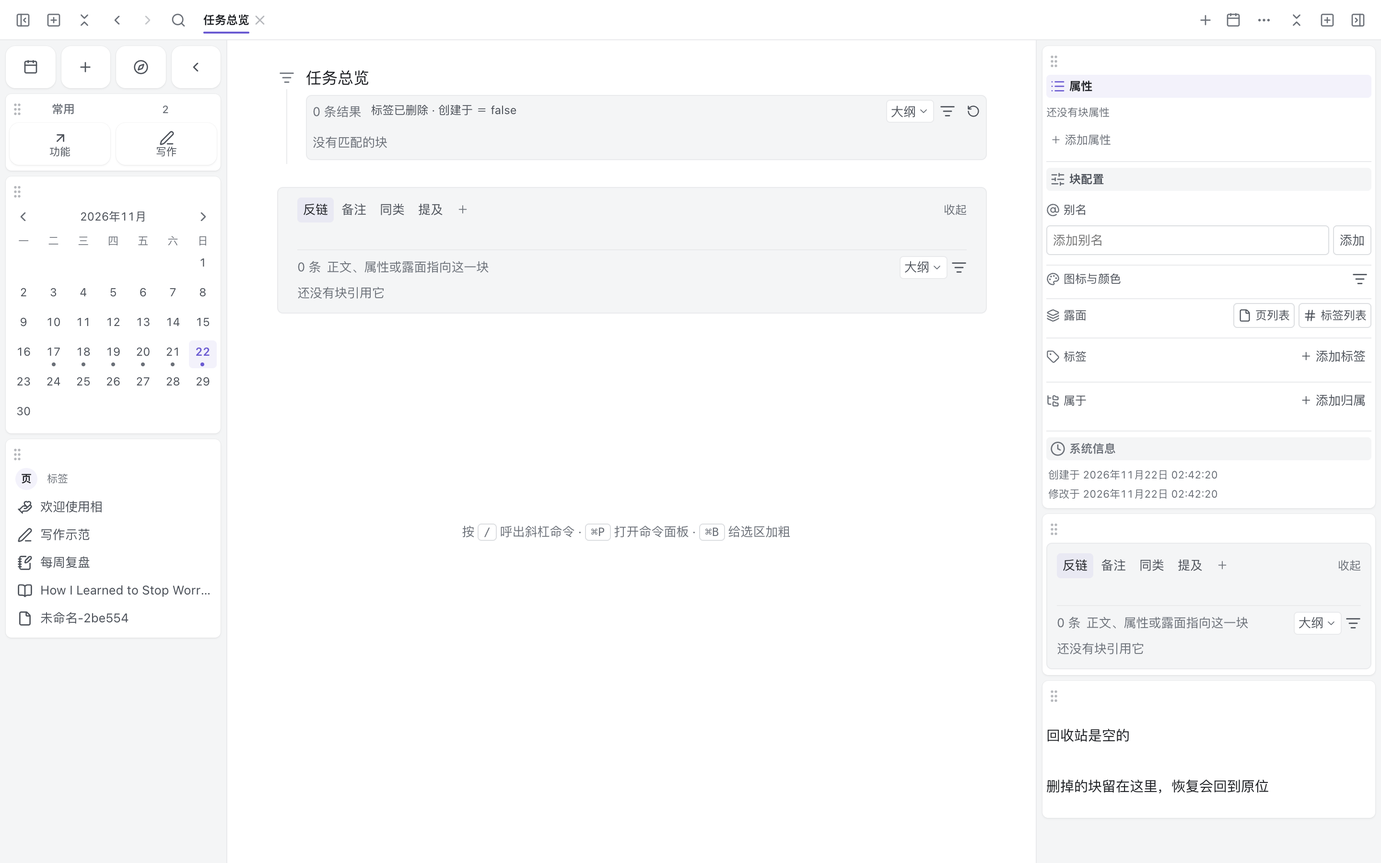
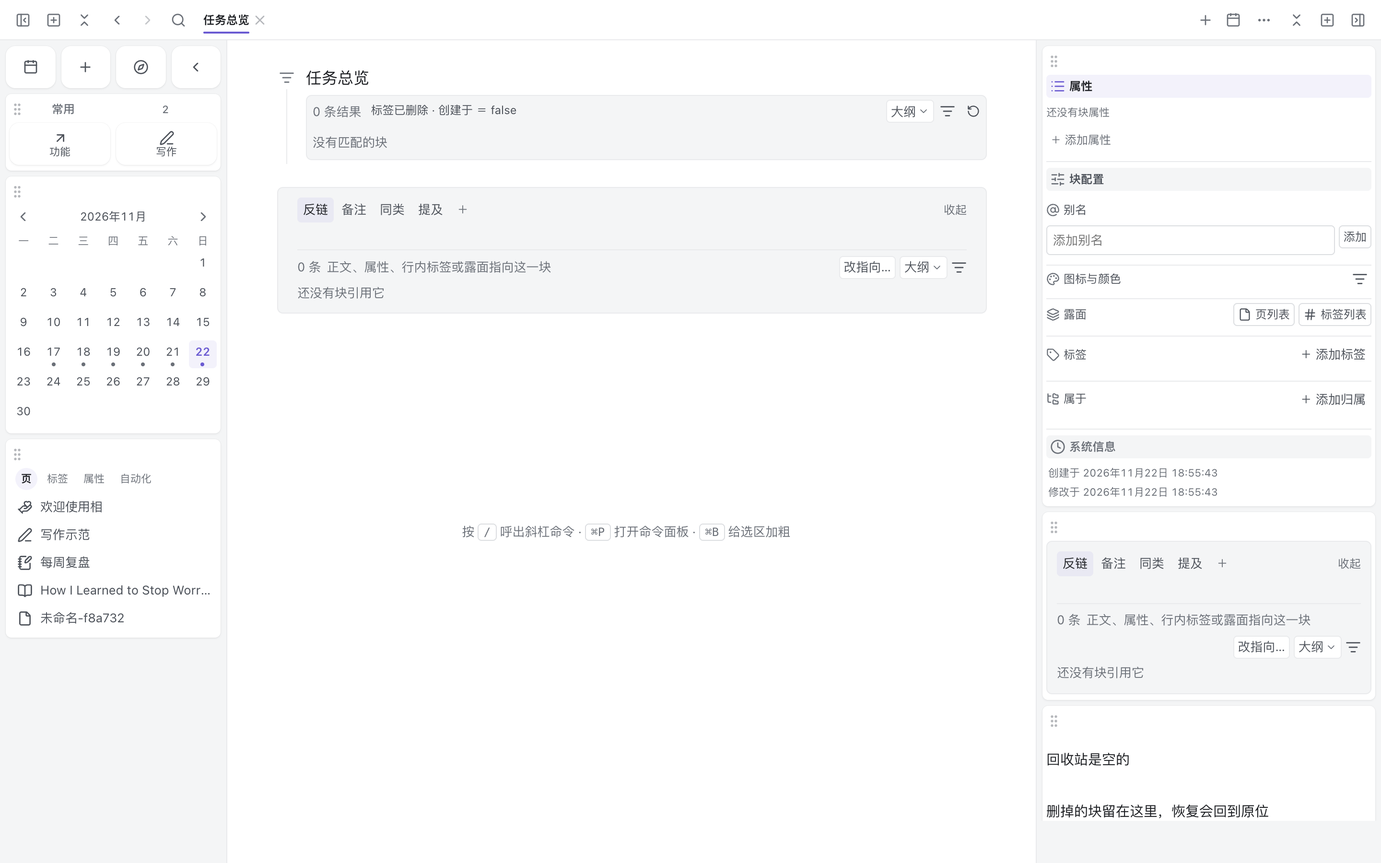
docs(readme): 中英文 README 重写——目录、改指向、自动化
三件这一版已经有、README 却没说的事补进去了：左槽「目录」的四面、
反链栏与成员栏的「改指向…」、自动化（如果…就…、一笔事务、失败回滚）；
删除收口也收成一句「只有一个入口」。

顺手修掉过时口径：属性类型的「勾选／单选」改回界面上的「开关／选项」；
附件不再写成「任意文件」（只收图片，或一条外链）；快捷键表补了
槽开关与设置里的界面语言。

截图按当前种子重拍（中英首屏、目录、斜杠菜单、条件树、侧槽）。

diff --git a/README.en.md b/README.en.md
@@ -2,6 +2,8 @@
 
 A desktop outliner built for notes you'll write once and use again and again.
 
+**[中文 README](README.md)** · The interface comes in Chinese and English; it follows your system language by default and can be switched in Settings.
+
 In Qua, every line you write is an independently actionable unit: tag it, give it properties, reference it from anywhere, drag it into a table or board to rearrange it, or mirror it onto multiple pages. Change it in one place and every place it appears updates in sync—content never gets locked inside the page where you wrote it.
 
 ![Qua's default interface: the body is an editable tree of blocks, with toggleable side docks on both edges](shots/readme-hero-en.png)
@@ -32,7 +34,8 @@ Qua is still in beta, so there are a few things worth spelling out up front:
 
 - **Old data may not survive a version upgrade.** When the data format changes, we switch straight to the new format rather than writing a migration. Before a format change, the desktop app automatically leaves a `backups/` snapshot in the repo directory; to be extra safe, copy the entire repo directory ("Documents/Qua") before upgrading.
 - **No import/export or cloud sync yet**—your data lives only on your own computer (or in your browser).
-- The interface is available in Chinese and English; it follows your system language by default and can be switched in Settings.
+- **The interface comes in Chinese and English**, follows your system language by default, and can be switched in Settings.
+- The app checks for a new version every 5 hours and mentions it in the "Qua" menu; installing it is still up to you.
 - If you run into any problems, let us know in [Issues](https://github.com/hqweay/qua/issues).
 
 ---
@@ -43,8 +46,9 @@ There are no rigid boundaries between pages, daily notes, tags, and views: a pag
 
 - **One block, many places.** Mirrored onto another page, pinned into a dock window, surfaced by a query—it's the same block everywhere, editable in place, with changes synced across all of them. Deletion is reversible too: deleted blocks go to the trash, and when restored their names, properties, and incoming references all come back exactly as they were.
 - **Values are separate from categories.** Which tags a block "belongs to" and which field values are filled in on it are two different things: tags categorize, fields hold values. A tag can declare fields for its members, and each member fills them in and displays them independently.
-- **Views are separate from data.** The same content can be seen from different angles—outline, table, board, calendar, and more. Switching views never rearranges your data, and changing a view never touches your content.
+- **Views are separate from data.** The same content can be seen from different angles—outline, table, board, calendar, mind map, and more. Switching views never rearranges your data, and changing a view never touches your content.
 - **Names are separate from the body.** Page and tag names are addresses; the body is a description. Editing the body never changes the name; references always show the target's current name, so renaming a target updates every reference to it.
+- **A library is just a folder.** A library is an ordinary directory (`library.json` + `qua.db` + `assets/`). No account, no server; copying the whole folder is a complete backup.
 
 The model behind this design (why pages, daily notes, tags, and views can all be reduced to blocks) is written up in [`docs/模型-一切皆块.md`](docs/模型-一切皆块.md)—read it if you're curious; you don't need it to use Qua.
 
@@ -54,13 +58,19 @@ The model behind this design (why pages, daily notes, tags, and views can all be
 
 ## What you can do
 
-**Write**: the body is an editable tree of blocks. Bold, italic, highlight, inline code, text color, and background color all travel with the text; `[[引用]]`, `#提及`, `@提及`, external links, and images are self-contained inline units, so adding or deleting them never damages the characters nearby—deleting at the end of a line won't break a reference into stray characters, and deleting text won't turn a tag into a handful of `#` symbols. Pasting a bare URL automatically turns it into a link. Shortcuts step aside during IME composition, so Chinese input is never interrupted. Select a span of text to add a **note** (comments follow the text) or set a color from the selection bubble; cross-block selections under the same parent block can be deleted or edited in place (the first and last fragments merge into one block). With multiple blocks selected, you can drag them as a group, delete or indent them in bulk—`⌘⇧A` upgrades "the words on this line" into "these blocks".
+**Write**: the body is an editable tree of blocks. Bold, italic, highlight, inline code, text color, and background color all travel with the text; `[[references]]`, `#tags`, `@names`, external links, and images are self-contained inline units, so adding or deleting them never damages the characters nearby—deleting at the end of a line won't break a reference into stray characters, and deleting text won't turn a tag into a handful of `#` symbols. Pasting a bare URL automatically turns it into a link. Shortcuts step aside during IME composition, so Chinese input is never interrupted. Select a span of text to add a **note** (comments follow the text) or set a color from the selection bubble; cross-block selections under the same parent block can be deleted or edited in place (the first and last fragments merge into one block). With multiple blocks selected, you can drag them as a group, delete or indent them in bulk—`⌘⇧A` upgrades "the words on this line" into "these blocks".
 
 ![Slash menu: type / at the start of a line to insert a to-do, query block, reference, date, or image in place](shots/overlay-斜杠菜单.png)
 
 **Capture**: quick notes land in today's daily note; `⌘T` brings you back to today any time, `⌘⇧R` reviews the last three days (`⌘⌥⇧R` the last seven); `@` mentions pages and blocks, creating a page on the spot if no page with that name exists; every daily note and page can be given an **icon and color**, so you can tell at a glance what's what. The daily-note host also carries a few built-in sections: references, created today, notes, and mentions.
 
-**Organize**: tags are hierarchical, and any block can have multiple "belongs to" relations—dragging it into the left-hand membership tree adds a relation, it doesn't move the block; tag order can be adjusted by dragging too. Declare **properties** on a tag, then write values on each block itself and edit them in place in the inspector card on the right. There are seven property types: text, number, date, checkbox, single select, reference, and attachment. Text can carry formatting (link / email / phone), and dates can be a date or a date-time; text, number, single select, reference, and attachment can all store **multiple values**, displayed as a row of chips. A reference property can narrow its candidate pool (under certain tags, a specified set of blocks, or the results of a query) and display as a chip or an editable inline reference; an attachment value can be an external link or a local image imported into the library. Mark a single-select field as "task status" and checking it completes the task, using the same interactions and queries as built-in to-dos.
+**Organize**: a block can belong to several tags at once, and tags themselves can be hierarchical. The **Directory** card in the left panel spreads the library's structural objects across four faces—pages, tags, property definitions, automations. The first two lay out the membership tree: dragging a block in adds a membership relation, it doesn't move the block. The last two are flat lists by identity and read-only. Properties are declared on tags, written on each block itself, and edited in place in the inspector card on the right. There are seven property types: text, number, date, switch, option, reference, and attachment. Text can carry formatting (link / email / phone), and dates can be a date or a date-time; text, number, option, reference, and attachment can all store **multiple values**, displayed as a row of chips. A reference property can narrow its candidate pool (under certain tags, a specified set of blocks, or the results of a query) and display as a chip or an editable inline reference; an attachment value can be an external link or a local image imported into the library. Mark an option field as "task status" and checking it completes the task, using the same interactions and queries as built-in to-dos.
+
+When references point at the wrong target, you don't have to fix them one by one: the header of the backlinks bar and of a tag's members bar both offer "**Retarget…**"—pick a new target once and that whole batch of references moves over, undoable in one step.
+
+Deletion has a single entry point: a block, a day, a page, a tag, a field definition all show the same "Delete" row in the menu. The confirmation only spells out what goes with it; deleted things go to the trash, and restoring brings back names, properties, and relations exactly as they were.
+
+**Automation**: an automation is a block that reads "**if … then …**". Triggers can be manual, a property change, a tag being added or removed, or a new child under a block; the "if" uses the same condition language as queries to circle up targets; the "then" is a small closed set of built-in actions: set/clear a property, add/remove a tag, insert a child, move. A manual run acts on the block you selected; to run over a batch, use the "if" to define the range. Each run is one transaction—a failure rolls the whole batch back, and one undo reverses the run. Disabled/active is part of the definition (it travels with the library), so a rule you got from somewhere else never starts firing on its own.
 
 **View**: the direct children of a page (or of any block) can be presented in seven views: outline, table, outline-table, cards (a gallery when ungrouped, a board when grouped by a property, with a toggle to "use the body's first image as the cover"), calendar, mind map, and tabs; query results can switch among four views: outline, table, cards, and calendar. Switching views never rearranges data, and changing a view never touches your content. Each view has an "Options" button in its header that gathers sorting, filtering, grouping, and display into one panel: tables let you drag column widths, cards let you adjust covers, and a grouped column header is that property's value. To look at a batch of blocks at once, use a query to circle up the members: conditions form a nestable condition tree, with each line reading like a sentence; "unfilled tasks" and "not tasks" are clearly distinguished; you can also ask existence questions like "has children", "has body", "has tag", or write relative dates like "before today" or "last seven days".
 
@@ -72,65 +82,68 @@ The model behind this design (why pages, daily notes, tags, and views can all be
 
 ## The shape language in the body
 
-Several kinds of atoms can live side by side in a single body of text. The shape itself is the relationship:
+Several kinds of atoms can live inside one block's text. The shape itself carries the relation:
 
-| What you write | What it is | How to recognize it |
+| What you type | What it is | How to read it |
 |---|---|---|
-| `[[页名]]` | Page reference | Bold + double brackets; click to jump straight there, `Shift+点击` opens a window in the dock |
-| `#名字` | Inline **mention** | Takes a slot in the body; it won't tag the block for you or make it a member of that tag |
-| End-of-line chip | Tag **membership** | Determined by the block's own tags; deleting text in the body won't remove it—to remove it, do so explicitly in the inspector card |
-| Triangle (to the left of a chip) | This tag has fields | Click to fill values in place; tags without fields don't get a triangle drawn |
-| `@名字` | Mention an addressable block | Once you name a regular block, it can be `@`-mentioned just like a page |
-| Image / external link | Inline atom | Images are content-addressed, so pasting the same one twice stores only one copy; clicking an external link hands it to your system browser |
+| `[[Page name]]` | page reference | bold with double brackets; click to go there, `Shift+click` opens it in a dock window |
+| `#Name` | inline tag / inline instance | takes one slot in the text; points at a tag or a record—it does **not** tag the block for you |
+| the chip at line end | tag **membership** | decided by the block's own tags; deleting text doesn't remove it—remove it explicitly in the inspector |
+| the triangle (left of the chip) | this tag has fields | click to fill values in place; tags without fields don't get a triangle |
+| `@Name` | reference to a page or a named block | once an ordinary block has a name, `@` finds it just like a page |
+| image / external link | inline atom | images are content-addressed, so pasting twice stores once; a link opens in your system browser |
 
-A tag says "who this content belongs to"; a field value says "what this content carries itself"—once the two are separate, deleting text, renaming, and moving never damage each other.
+Tags answer "whose content is this"; field values answer "what does this content carry"—keeping them apart means deleting text, renaming, or moving never damages the other.
 
 ---
 
 ## Common keyboard shortcuts
 
-| Key | Action |
+| Key | What it does |
 |---|---|
-| `Enter` / `⇧Enter` | Create a sibling / child block at the cursor |
-| `Tab` / `⇧Tab` | Indent / outdent |
-| `⌘⏎` | Toggle a to-do complete |
-| `⌘B` / `⌘I` / `⌘E` / `` ⌘` `` | Bold / italic / highlight / inline code (select text first) |
-| `⌘⇧K` / `@` / `#` | Insert a reference / mention a page or block / mention a tag |
-| `⌘.` | Fold / unfold the current block |
-| `⌘Z` / `⌘⇧Z` | Undo / redo (when the editor is focused) |
-| `⌘⇧A` | Select this line → these blocks |
-| `⌘P` | Command palette |
-| `⌘K` | Global search (always available; insert a link from the slash menu or block menu) |
-| `⌘T` / `⌘⇧R` | Go to today's daily note / review the last three days |
-| `⌘⇧L` / `⌘,` | Toggle theme / Settings |
-| `⌘⇧?` | Keymap (each command's shortcut and when it applies) |
+| `Enter` / `⇧Enter` | create the next sibling / a child at the insertion point |
+| `Tab` / `⇧Tab` | indent / outdent |
+| `⌘⏎` | toggle to-do completion |
+| `⌘B` / `⌘I` / `⌘E` / `` ⌘` `` | bold / italic / highlight / inline code (select text first) |
+| `⌘⇧K` / `@` / `#` | insert an inline reference / reference a page or block / insert an inline tag |
+| `⌘.` | fold / unfold the current block |
+| `⌘Z` / `⌘⇧Z` | undo / redo (while the editor has focus) |
+| `⌘⇧A` | select this line → these blocks |
+| `⌘P` | command palette |
+| `⌘K` | global search (always available; inserting a link lives in the slash menu and block menu) |
+| `⌘T` / `⌘⇧R` | back to today's journal / review the last three days |
+| `⌘⌥1` / `⌘⌥2` | toggle the left / right dock |
+| `⌘⇧L` / `⌘,` | toggle theme / Settings (the interface language lives here too) |
+| `⌘⇧?` | keymap (every command's shortcut and when it applies) |
 
-Mouse: the block handle stays at the left of each line and turns into a drag grip on hover; left-click to focus, right-click for the menu, drag to reorder; `Shift+点击` opens a window in the dock, `⌥+点击` shows property details in place. Rows in record views (table / cards / list / calendar) also open the same block menu on right-click—the menu opens for the specific block you clicked, and deletions and copies both go through undo; only actions that make sense for a block appear (editor-dependent ones like indent or fold don't).
+Mouse: the block handle sits to the left of each row and turns into a drag grip on hover; left-click focuses, right-click opens the menu, drag reorders. `Shift+click` opens a window in the side dock, `⌥+click` shows property details in place. Rows in record views (table / cards / list / calendar) open the same block menu on right-click—the menu opens for the block you clicked, deletion and copying are undoable, and only actions that make sense for a block appear (indent/fold and other editor-dependent ones don't).
 
 ---
 
 ## Where your data lives
 
-- **Desktop**: each repo is a directory under "Documents/Qua" (`repos/<id>/`), with content stored in `qua.db` (SQLite) and images saved by content hash under `assets/`. Every edit writes only the parts that changed, so large repos stay fast. `Qua/app.json` keeps the repo list, and you can also open any external directory as a repo. Before a data-format change, a full snapshot of the repo is automatically left in `backups/`.
-- **Browser**: the body and structure live in the browser's localStorage, and inline images in IndexedDB; plan a backup before switching devices or clearing browser data. Search in the web version is a local scan, with no word segmentation or pinyin.
-- **Deletion**: deletes are soft deletes and can be restored with one click from the trash; only emptying the trash removes them for good.
+- **Desktop**: each library is a directory under "Documents/Qua" (`repos/<id>/`); content lives in `qua.db` (SQLite), and images are stored by content hash under `assets/`. Every edit writes only what changed, so a big library doesn't get slower. `Qua/app.json` records the library list, and you can open any external directory as a library. Before a data-format change, the app leaves a full-library snapshot in `backups/`.
+- **Browser**: text and structure live in the browser's localStorage, and inline images in IndexedDB; think about backups before switching devices or clearing browser data. Search in the web version is a local scan, without word segmentation or pinyin.
+- **Deletion**: deletes are soft; the trash restores with one click, and only emptying the trash makes it final.
 
 ---
 
 ## Current limitations
 
-- No import/export (Markdown and other formats aren't supported yet) and no cloud sync.
-- The desktop apps are unsigned (on macOS, right-click → Open on first launch) and never replace themselves:
-  the app checks for a new version every 5 hours and says so in the app menu; installing it is still up to you. Back up your repo directory before upgrading.
-- The edges of cross-block collapsing aren't fully covered yet: when a selection crosses parent blocks, or when the first block is a section root (the first level of a page's or daily note's body), deleting or replacing that cross-block selection isn't supported yet.
-- Inline assets are limited to images for now; attachments in properties can be any file or an external link.
-- The interface is available in Chinese and English; it follows your system language by default and can be switched in Settings. There's no mobile app, collaboration, or plugin system, and none of these are near-term goals.
+- No import/export (Markdown and other formats are not supported yet) and no cloud sync.
+- The desktop app is unsigned (on macOS, right-click → Open the first time) and does not update itself: it checks for a new version every 5 hours and mentions it in the "Qua" menu; installing it is up to you. Back up the library directory before upgrading.
+- Cross-block merging has unfinished edges: a cross-block selection that spans different parents, or whose first block is a section root (the first level of a page or daily note), can't be deleted or replaced yet.
+- Inline assets and attachments currently accept images only; an attachment value can also be an external link.
+- Automation actions are a small closed set of built-in operations—no scripting. Richer workflows will have to wait for a plugin system.
+- The interface is available in Chinese and English (system language by default, switchable in Settings); there is no mobile app, collaboration, or plugin system, and none of those are near-term goals.
 
 ---
 
 ## Feedback
 
-Found a bug, strange data behavior, or something that just feels off? Open an [Issue](https://github.com/hqweay/qua/issues). A single sentence covering "which screen, what you did, what you expected, what actually happened" is already a useful report; for data problems, describe the steps you took—no need to attach the repo file (it contains your content).
+Bugs, data oddities, or anything that feels off—open an
+[Issue](https://github.com/hqweay/qua/issues).
+One sentence covering "which screen, what you did, what you expected, what actually happened" is a very useful report; for data problems, describe what you did—no need to attach the library file (it contains your content).
 
 ---
 
@@ -138,15 +151,18 @@ Found a bug, strange data behavior, or something that just feels off? Open an [I
 
 ```bash
 pnpm install
-pnpm dev            # start vite + electron together
+pnpm dev            # vite + electron together
 pnpm dev:web        # browser only → http://127.0.0.1:5180/
-pnpm gate           # full gate: static assertions + unit tests + build + smoke + real Electron
-pnpm build:mac      # produce .app and .dmg (release/ directory)
+pnpm gate           # full gate: static checks + unit tests + build + smoke + real Electron
+pnpm build:mac      # .app and .dmg (release/ directory)
 ```
 
-You'll need Node 26.x and pnpm 11.x. Before you start, read [`AGENTS.md`](AGENTS.md) (engineering discipline), [`CONTRIBUTING.md`](CONTRIBUTING.md) (process), and [`docs/ROADMAP.md`](docs/ROADMAP.md) (what's next).
+Node 26.x and pnpm 11.x are required. Before touching code, read [`AGENTS.md`](AGENTS.md) (engineering rules),
+[`CONTRIBUTING.md`](CONTRIBUTING.md) (workflow), and [`docs/ROADMAP.md`](docs/ROADMAP.md) (what's next).
 
-The architecture has five layers: `core ← view ← ui ← app ← host`; the model layer has zero DOM, commands never touch page elements, and structural constraints are enforced statically by `pnpm arch:check`. Visualization and more docs: [`https://qua.leay.net/arch.html`](https://qua.leay.net/arch.html) · [`docs/ARCH-断言.md`](docs/ARCH-断言.md) · [`docs/ELECTRON-备忘.md`](docs/ELECTRON-备忘.md).
+The architecture has five layers: `core ← view ← ui ← app ← host`. The model layer has zero DOM, commands never touch page elements, and the structural constraints are enforced statically by `pnpm arch:check`. Visualization and more docs:
+[`https://qua.leay.net/arch.html`](https://qua.leay.net/arch.html) ·
+[`docs/ARCH-断言.md`](docs/ARCH-断言.md) · [`docs/ELECTRON-备忘.md`](docs/ELECTRON-备忘.md).
 
 ---
 

diff --git a/README.md b/README.md
@@ -2,7 +2,7 @@
 
 一款桌面大纲笔记，为「写下来之后还要反复使用」而设计。
 
-**[English README](README.en.md)** · 界面支持中文与英文，默认跟随系统语言，可在设置中切换。
+**[English README](README.en.md)** · 界面支持中文与英文，默认跟随系统语言，可在设置里切换。
 
 在相里，你写的每一行都是一个可独立操作的单位：可以打标签、加属性、被引用到任何地方、
 拖进表格或看板重新排列、镜像到多个页面。改动任何一处，所有出现它的地方同步更新——
@@ -42,7 +42,8 @@
   桌面版在换格式之前会在库目录里自动留一份 `backups/` 快照；想更稳妥，升级前把整个库目录
   （「文稿/Qua」）拷一份。
 - **暂时没有导入导出和云同步**，数据只在你自己的电脑（或浏览器）里。
-- 界面支持中文与英文，默认跟随系统语言，可在设置中切换。
+- **界面有中文和英文两套**，默认跟随系统语言，可在设置里切换。
+- 应用每 5 小时查一次新版，有更新会在「相」菜单里提示；装新版要自己下载。
 - 有任何问题都欢迎到 [Issues](https://github.com/hqweay/qua/issues) 告诉我们。
 
 ---
@@ -58,10 +59,12 @@
   恢复后名字、属性、被谁引用的关系都原样回来。
 - **值与分类分开。** 一块「属于」哪些标签，和它身上填了哪些字段的值是两件事：
   标签给归类，字段给值。同一个标签可以给成员声明字段，成员各自填、各自显示。
-- **看法与数据分离。** 同一批内容可以从大纲、表格、看板、日历等不同角度去看，
+- **看法与数据分离。** 同一批内容可以从大纲、表格、看板、日历、思维导图等不同角度去看，
   换看法不重排数据，改看法也不动你的内容。
 - **名字和正文分开。** 页名、标签名是地址，正文是描述。改正文不会改名字；
   引用永远显示目标当前的名字，目标改名，所有引用跟着变。
+- **一个库就是一个文件夹。** 库是一个普通目录（`library.json` ＋ `qua.db` ＋ `assets/`），
+  没有账号，也没有服务器；拷贝整个目录就是一份完整备份。
 
 这个设计背后的模型（页、日记、标签、视图为何都能还原成块）写在
 [`docs/模型-一切皆块.md`](docs/模型-一切皆块.md)，感兴趣再读，不读不影响使用。
@@ -73,7 +76,7 @@
 ## 能做什么
 
 **写**：正文是一棵可编辑的块树。加粗、斜体、高亮、行内代码、文字与背景色随文字走；
-`[[引用]]`、`#提及`、`@提及`、外链、图片都是完整的行内单元，增删不会伤到旁边的字——
+`[[引用]]`、`#标签名`、`@名字`、外链、图片都是完整的行内单元，增删不会伤到旁边的字——
 行尾删除不会把引用拆成几行字，删字也不会把标签变成几个 `#`。
 粘贴一个纯网址会自动变成链接。输入法组合期间快捷键自动让路，中文输入不受干扰。
 选中一段字，还能从划选气泡里写**备注**（批注跟字走）或设置颜色；
@@ -86,14 +89,27 @@
 `@` 提及页与块，没有同名页时当场建页；每条日记、每一页都能配**图标与颜色**，
 扫一眼就知道哪条是什么。日记宿主上还挂着几条内置栏：引用、当日新建、备注、提及。
 
-**组织**：标签有层级，任何块都能配置多个「属于」——拖进左侧归属树是加一条归属关系，
-不是搬家；标签的顺序也能拖拽调整。给标签声明**属性**，值写在每块自己身上，
-在右侧检视卡里就地编辑。属性有七种：文本、数字、日期、勾选、单选、引用、附件。
+**组织**：一个块可以同时属于多个标签，标签自己也能有层级。左槽的**目录**把库里的
+结构对象摊成四面：页、标签、属性定义、自动化——前两面按归属边摊成树，把块拖进去
+就是加一条归属，不是搬家；后两面按身份平铺，只读。属性声明在标签上，值写在每块
+自己身上，在右侧检视卡里就地编辑。属性有七种：文本、数字、日期、开关、选项、引用、附件。
 文本可以带格式（链接／邮箱／电话），日期可以是日期或日期时间；
-文本、数字、单选、引用、附件都能存**多个值**，显示成一行 chips。
+文本、数字、选项、引用、附件都能存**多个值**，显示成一行 chips。
 引用类型的属性可以限定候选范围（某些标签下、指定几个块、或一个查询的结果），
 显示成 chip 或就地可编辑的行内引用；附件类型的值可以贴外链，也可以选本地图片入库。
-把一个单选字段标为「任务状态」后，勾选即完成，和内置待办走同一套交互与查询。
+把一个选项字段标为「任务状态」后，勾选即完成，和内置待办走同一套交互与查询。
+
+引用指错了目标也不用逐处改：反链栏、标签的成员栏抬头都有「**改指向…**」，
+选一次就把那一批引用整片换过去，一步撤销。
+
+删除只有一入口：块、这一天、页、标签、字段定义在菜单里都是同一行「删除」，
+确认框只说清连带代价；删掉的进回收站，恢复后名字、属性、关系原样回来。
+
+**自动化**：一条自动化就是一块「**如果……就……**」。触发可以手动运行、某个属性变化、
+被打上或摘掉某个标签、或在某个块下新建子块；「如果」用和查询同一门条件语言圈目标；
+「就」是一小组内置动作：设／清属性、挂／摘标签、插子块、移动。手动运行只作用于
+选中的那一块；要让满足条件的一批块一起跑，用「如果」圈范围。整条运行是一笔事务——
+失败整批回滚，跑完一步撤销。停用是定义的一部分（随库同步），从别处拿来的规则不会自己生效。
 
 **看**：一页（或任何一块）的直接子块，都能用七种看法呈现：大纲、表格、大纲表格、
 卡片（不分组是画廊，按属性分组就是看板，可开关「取正文首图作封面」）、日历、思维导图、页签；
@@ -120,10 +136,10 @@
 | 写出来 | 是什么 | 怎么认 |
 |---|---|---|
 | `[[页名]]` | 页引用 | 粗体＋双方括号；点开即达，`Shift+点击` 在侧槽开窗 |
-| `#名字` | 行内**提及** | 占正文一格；不会替你打上标签，也不会让这块成为它的成员 |
+| `#名字` | 行内标签／行内实例 | 占正文一格；指向标签或一条记录，**不会**替你打上标签 |
 | 行尾 chip | 标签**归属** | 由块自己的标签决定；删掉正文里的字不会摘掉它，要摘得在检视卡里显式摘 |
 | 三角（在 chip 左侧） | 这个标签有字段 | 点开就地填值；没有字段的标签不硬画三角 |
-| `@名字` | 提及带地址的块 | 给普通块起名之后，它和页一样能被 `@` 到 |
+| `@名字` | 引用页或取过名的块 | 给普通块起名之后，它和页一样能被 `@` 到 |
 | 图片／外链 | 行内原子 | 图片按内容寻址，贴两次只存一份；外链点一下交给系统浏览器 |
 
 标签是「这份内容属于谁」，字段值是「这份内容自己带着什么」——两件事分开之后，
@@ -139,14 +155,15 @@
 | `Tab` / `⇧Tab` | 缩进 / 反缩进 |
 | `⌘⏎` | 切换待办完成 |
 | `⌘B` / `⌘I` / `⌘E` / `` ⌘` `` | 加粗 / 斜体 / 高亮 / 行内代码（先选中文字） |
-| `⌘⇧K` / `@` / `#` | 插入引用 / 提及页或块 / 提及标签 |
+| `⌘⇧K` / `@` / `#` | 插入行内引用 / 引用页或块 / 插入行内标签 |
 | `⌘.` | 折叠 / 展开当前块 |
 | `⌘Z` / `⌘⇧Z` | 撤销 / 重做（编辑器聚焦时） |
 | `⌘⇧A` | 选中这一行 → 这些块 |
 | `⌘P` | 命令面板 |
 | `⌘K` | 全局搜索（随时可用；插入链接在斜杠菜单和块菜单里） |
 | `⌘T` / `⌘⇧R` | 回到今日日记 / 复盘最近三天 |
-| `⌘⇧L` / `⌘,` | 切换主题 / 设置 |
+| `⌘⌥1` / `⌘⌥2` | 收放左槽 / 右槽 |
+| `⌘⇧L` / `⌘,` | 切换主题 / 设置（界面语言也在这里） |
 | `⌘⇧?` | 键位表（每条命令的键位与生效条件） |
 
 鼠标：块标常驻在行左侧，悬停时变成拖动抓手；左键聚焦、右键菜单、拖动重排；
@@ -175,7 +192,8 @@
   有就在「相」菜单里提示，装新版要自己下载。升级前请备份库目录。
 - 跨块收拢的边界还没补全：跨父块、或首块是段根（页／日记的正文第一层）时，
   那种跨块选区的删除／替换还不支持。
-- 行内资产暂时只有图片；属性里的附件可以是任意文件或外链。
+- 行内资产与附件目前都只收图片；附件值也可以是一条外链。
+- 自动化的动作是一小组内置操作，不能写脚本；更复杂的玩法要等插件系统。
 - 界面支持中文与英文（默认跟随系统语言，可在设置中切换）；没有移动端、协作与插件系统，这些不在近期目标里。
 
 ---
